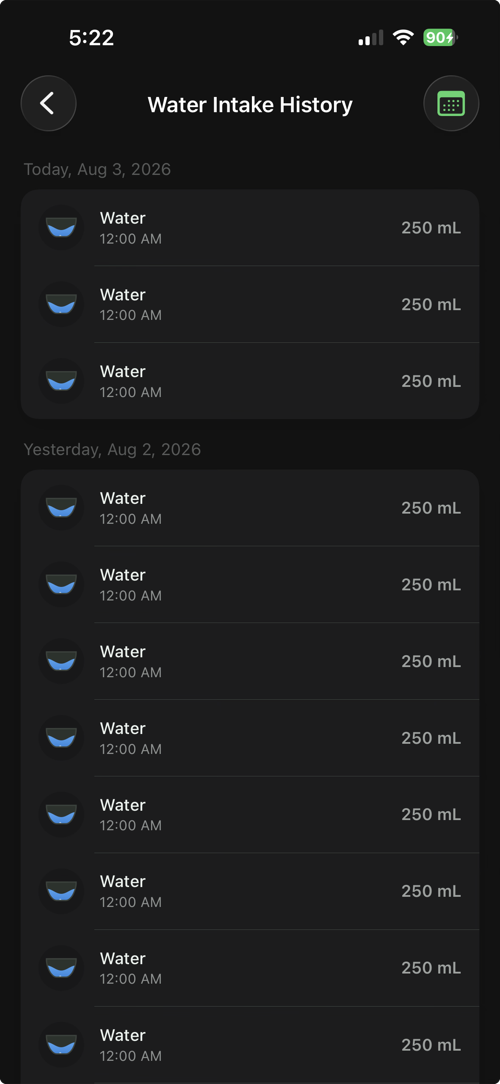
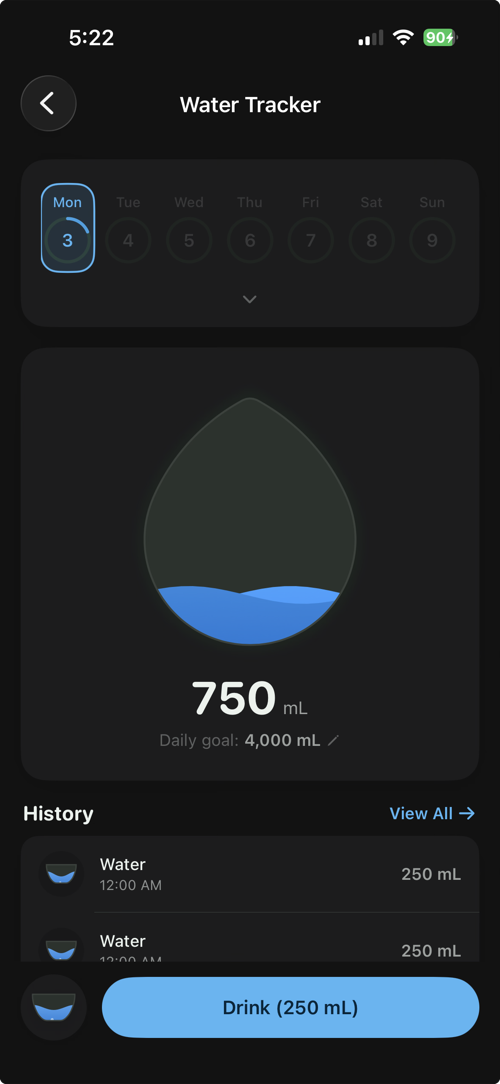
Update README to rename "Water history" to "Water tracker" and update corresponding screenshot references

diff --git a/README.md b/README.md
@@ -16,9 +16,9 @@ App appearance follows the system by default and can be pinned to Light or Dark 
 | ![Quick Log entry types](docs/screenshots/quick_log.png) | ![Browse/search foods](docs/screenshots/log_food_browse.png) | ![Profile & goals](docs/screenshots/profile.png) |
 | ![Quick Log entry types, light](docs/screenshots/quick_log_light.png) | ![Browse/search foods, light](docs/screenshots/log_food_browse_light.png) | ![Profile & goals, light](docs/screenshots/profile_light.png) |
 
-| BMI gauge | Water history | Settings |
+| BMI gauge | Water tracker | Settings |
 |---|---|---|
-| ![BMI gauge](docs/screenshots/bmi_gauge.png) | ![Water intake history](docs/screenshots/water_history.png) | ![Settings / More tab](docs/screenshots/settings.png) |
+| ![BMI gauge](docs/screenshots/bmi_gauge.png) | ![Water tracker, dark](docs/screenshots/water_history.png) | ![Settings / More tab](docs/screenshots/settings.png) |
 | ![BMI gauge, light](docs/screenshots/bmi_gauge_light.png) | ![Water tracker, light](docs/screenshots/water_history_light.png) | ![Settings / More tab, light](docs/screenshots/settings_light.png) |
 
 ## How logging a meal works
